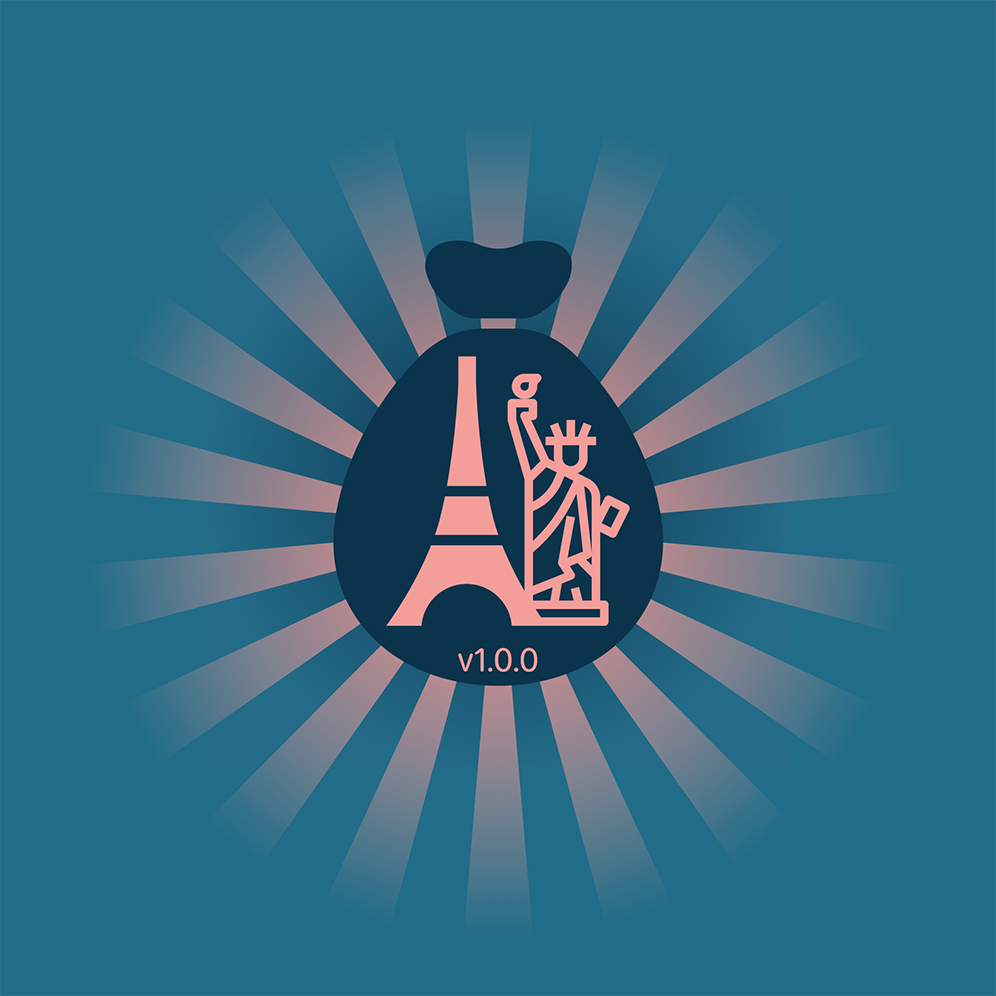
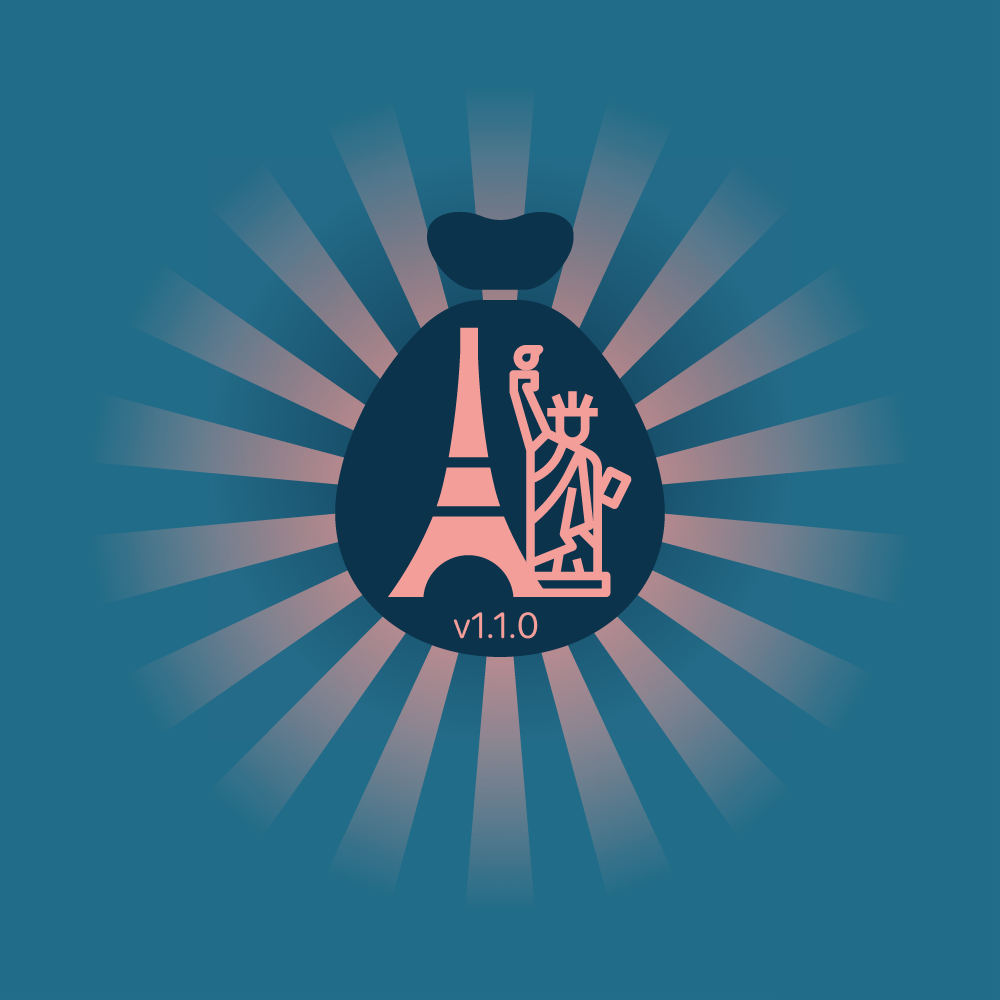
v1.1.0 Changement de l’API qui permet d’obtenir le taux de change Euro / Dollar, désormais c’est l’API open source Frankfurter qui est utilisée pour obtenir ce taux de change

diff --git a/MonBaluchonParisNYCTests/CurrencyTestCase.swift b/MonBaluchonParisNYCTests/CurrencyTestCase.swift
@@ -186,7 +186,7 @@ class CurrencyTestCase: XCTestCase {
     func testHTTPDataDateIsZero_WhenGetRate_ThenErrorNotificationPosted() {
         let notificationName = Notification.Name.errorUndefined
         let currencyRateHTTPData = CurrencyRateHTTPData(
-            success: true,
+//            success: true,
             date: "0",
             rates: CurrencyRateHTTPData.Rates(USD: 2.0)
         )
@@ -224,7 +224,7 @@ class CurrencyTestCase: XCTestCase {
     func testHTTPDataDateIsBad_WhenGetRate_ThenErrorNotificationPosted() {
         let notificationName = Notification.Name.errorUndefined
         let currencyRateHTTPData = CurrencyRateHTTPData(
-            success: true,
+//            success: true,
             date: "aze",
             rates: CurrencyRateHTTPData.Rates(USD: 2.0)
         )
@@ -264,7 +264,7 @@ class CurrencyTestCase: XCTestCase {
     func testGivenEmptyUD_WhenGetRate_ThenUDSetAndNotificationPosted() {
         // Given
         let currencyRateHTTPData = CurrencyRateHTTPData(
-            success: true,
+//            success: true,
             date: "2021-10-03",
             rates: CurrencyRateHTTPData.Rates(USD: 2.0)
         )
@@ -341,7 +341,7 @@ class CurrencyTestCase: XCTestCase {
         userDefaults.set("5 $", forKey: tipInputUDKey)
         
         let currencyRateHTTPData = CurrencyRateHTTPData(
-            success: true,
+//            success: true,
             date: "2021-10-03",
             rates: CurrencyRateHTTPData.Rates(USD: 2.0)
         )
@@ -476,7 +476,7 @@ class CurrencyTestCase: XCTestCase {
         userDefaults.set(" $", forKey: usdToEuroInputUDKey)
         
         let currencyRateHTTPData = CurrencyRateHTTPData(
-            success: true,
+//            success: true,
             date: "2021-10-03",
             rates: CurrencyRateHTTPData.Rates(USD: 2.0)
         )
@@ -522,7 +522,7 @@ class CurrencyTestCase: XCTestCase {
         userDefaults.set("badvalue", forKey: usdToEuroInputUDKey)
 //
         let currencyRateHTTPData = CurrencyRateHTTPData(
-            success: true,
+//            success: true,
             date: "2021-10-03",
             rates: CurrencyRateHTTPData.Rates(USD: 2.0)
         )
@@ -793,7 +793,7 @@ class CurrencyTestCase: XCTestCase {
         )
         
         let currencyRateHTTPData = CurrencyRateHTTPData(
-            success: true,
+//            success: true,
             date: "2021-10-03",
             rates: CurrencyRateHTTPData.Rates(USD: 2.0)
         )

diff --git a/MonBaluchonParisNYC/Services/CurrencyService.swift b/MonBaluchonParisNYC/Services/CurrencyService.swift
@@ -14,7 +14,23 @@ class CurrencyService: CurrencyServiceProtocol {
     private var session = URLSession(configuration: .default)
     private var task: URLSessionDataTask?
     
-    private var apiURL: String = "https://fixer-io-request.herokuapp.com/?key=devkey"
+    //    private var apiURL: String = "https://fixer-io-request.herokuapp.com/?key=13E1D8BB-A38D-4F38-A264-E29DAE7F1FA4"
+    private var apiURL: String = "https://api.frankfurter.app/latest?to=USD"
+    
+    
+    /* https://api.frankfurter.app/latest?amount=${fromValue}&from=${currencyFrom}&to=${currencyTo} */
+    /* https://api.frankfurter.app/latest?to=USD */
+    
+    //    struct CurrencyRateHTTPData: Decodable {
+    //        let success: Bool
+    //        let date: String
+    //        let rates: Rates
+    //
+    //        struct Rates: Decodable {
+    //            let USD: Double
+    //        }
+    //    }
+    
     
     init(
         session: URLSession = URLSession.shared,
@@ -59,10 +75,11 @@ class CurrencyService: CurrencyServiceProtocol {
                 // Getting JSON from HTTP response
                 guard let data = data,
                       let currencyRateData = try? JSONDecoder()
-                        .decode(
-                            CurrencyRateHTTPData.self,
-                            from: data
-                        ) else {
+                    .decode(
+                        CurrencyRateHTTPData.self,
+                        from: data
+                    )
+                else {
                     completion(BPNError.httpResponseData, nil)
                     return
                 }

diff --git a/MonBaluchonParisNYCTests/PasteboardServiceTestCase.swift b/MonBaluchonParisNYCTests/PasteboardServiceTestCase.swift
@@ -15,7 +15,7 @@ class PasteboardServiceTestCase: XCTestCase {
         UIPasteboard.general.items = []
     }
     
-    func testGivenStringInput_WhenSetPasteboard_ThenResponseIsStringInput() {
+    func testGivenStringInput_WhenSetPasteboard_ThenOutputIsCorrect() {
         // Given
         let input = "abcd"
         
@@ -28,7 +28,7 @@ class PasteboardServiceTestCase: XCTestCase {
         XCTAssertEqual(output!, input)
     }
     
-    func testGivenImage_WhenSetString_ThenResponseIsASuccess() {
+    func testGivenImage_WhenSetString_ThenOutputIsNil() {
         // Given
         let input = UIImage()
         

diff --git a/MonBaluchonParisNYCTests/CurrencyServiceTestCase.swift b/MonBaluchonParisNYCTests/CurrencyServiceTestCase.swift
@@ -37,14 +37,14 @@ class CurrencyServiceTestCase: XCTestCase {
         // When
         currencyService.getRate { error, data in
             // Then
-            let success = true
+//            let success = true
             let date = "2021-06-14"
             let ratesUSD = 1.212437
 
             XCTAssertNil(error)
             XCTAssertNotNil(data)
 
-            XCTAssertEqual(success, data?.success)
+//            XCTAssertEqual(success, data?.success)
             XCTAssertEqual(date, data?.date)
             XCTAssertEqual(ratesUSD, data?.rates.USD)
 

diff --git a/MonBaluchonParisNYC/Services/WeatherService.swift b/MonBaluchonParisNYC/Services/WeatherService.swift
@@ -29,7 +29,8 @@ class WeatherService: WeatherServiceProtocol {
         completion: @escaping (BPNError?, WeatherHTTPData?) -> ()
     ) {
         guard let apiKeyWeather = apiKeyWeather,
-              let url = URL(string: "\(apiURL)?id=\(city.getCityWeatherID())&lang=fr&units=metric&appid=\(apiKeyWeather)") else {
+              let url = URL(string: "\(apiURL)?id=\(city.getCityWeatherID())&lang=fr&units=metric&appid=\(apiKeyWeather)")
+        else {
             completion(BPNError.undefinedRequestError, nil)
             return
         }

diff --git a/MonBaluchonParisNYC/Model/HTTPData/CurrencyRateHTTPData.swift b/MonBaluchonParisNYC/Model/HTTPData/CurrencyRateHTTPData.swift
@@ -7,8 +7,29 @@
 
 import Foundation
 
+// OLD values
+//struct CurrencyRateHTTPData: Decodable {
+//    let success: Bool
+//    let date: String
+//    let rates: Rates
+//
+//    struct Rates: Decodable {
+//        let USD: Double
+//    }
+//}
+
+// New received JSON
+//{
+//  "amount": 1.0,
+//  "base": "EUR",
+//  "date": "2022-12-02",
+//  "rates": {
+//    "USD": 1.0538
+//  }
+//}
+
+// New values
 struct CurrencyRateHTTPData: Decodable {
-    let success: Bool
     let date: String
     let rates: Rates
     

diff --git a/MonBaluchonParisNYC/Model/Currency.swift b/MonBaluchonParisNYC/Model/Currency.swift
@@ -316,7 +316,10 @@ class Currency {
                 string,
                 for: calculation
               ),
-              let formattedString = getStringFromDouble(double, minimumFractionDigits: 0)
+              let formattedString = getStringFromDouble(
+                double,
+                minimumFractionDigits: 0
+              )
         else {
             return nil
         }

diff --git a/MonBaluchonParisNYC/Controller/TranslationViewController.swift b/MonBaluchonParisNYC/Controller/TranslationViewController.swift
@@ -213,7 +213,10 @@ extension TranslationViewController: TranslationCellDelegate {
         return true
     }
     
-    func translateInput(value: String, of cell: TranslationCell) {
+    func translateInput(
+        value: String,
+        of cell: TranslationCell
+    ) {
         cell.outputActivityIndicator.startAnimating()
         cell.outputTextView.text = ""
         

diff --git a/MonBaluchonParisNYC/View/Cells/TranslationCell.swift b/MonBaluchonParisNYC/View/Cells/TranslationCell.swift
@@ -118,7 +118,10 @@ extension TranslationCell: UITextViewDelegate {
 }
 
 protocol TranslationCellDelegate {
-    func translateInput(value: String, of cell: TranslationCell)
+    func translateInput(
+        value: String,
+        of cell: TranslationCell
+    )
     func shouldChangeTextOfInput(
         textView: UITextView,
         range: NSRange,

diff --git a/MonBaluchonParisNYC/SupportingFiles/APIKeys.swift b/MonBaluchonParisNYC/SupportingFiles/APIKeys.swift
@@ -17,6 +17,6 @@ func valueForAPIKey(named keyname:String) -> String? {
     return value
 }
 
-//let keyCurrency = valueForAPIKey(named: "Fixer")
+let apiKeyCurrency = valueForAPIKey(named: "Fixer")
 let apiKeyTranslate = valueForAPIKey(named: "GoogleTranslation")
 let apiKeyWeather = valueForAPIKey(named: "OpenWeather")

diff --git a/MonBaluchonParisNYCTests/TranslationServiceTestCase.swift b/MonBaluchonParisNYCTests/TranslationServiceTestCase.swift
@@ -37,6 +37,7 @@ class TranslationServiceTestCase: XCTestCase {
                 data: MockResponseData.translationCorrectData
             )
         }
+        
         // When
         translationService.getTranslation(
             of: queryText,

diff --git a/MonBaluchonParisNYC/Model/Translation.swift b/MonBaluchonParisNYC/Model/Translation.swift
@@ -22,7 +22,6 @@ class Translation {
     }
     
     let maxCharacters = 100
-    
     let maxRequestPerDay = 20
     
     private var requestTimestampCounter: Int {
